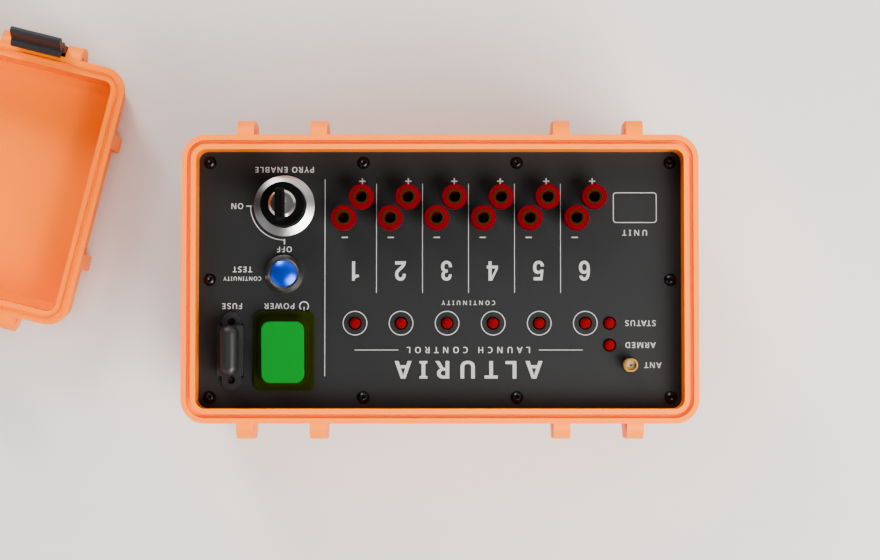
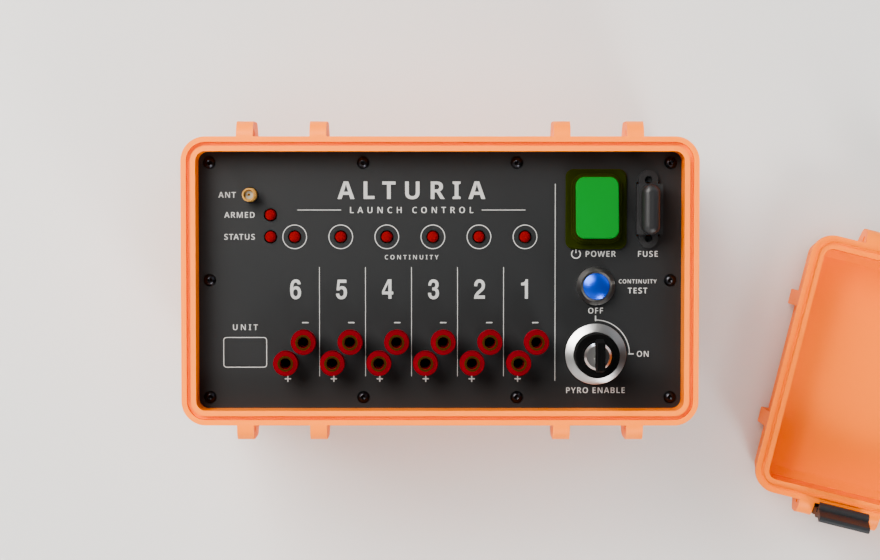
update readme

diff --git a/hardware/satellite/cad/render/build_scene.py b/hardware/satellite/cad/render/build_scene.py
@@ -345,7 +345,7 @@ def camera(name, direction, dist, lens, target=CENTER, focus=None, fstop=None, u
 panel_c = Vector(((case_lo.x + case_hi.x) / 2, (case_lo.y + case_hi.y) / 2, case_hi.z - 0.015))
 CAMS = {
     "hero": (camera("hero", (-0.42, 0.85, 0.55), 1.15, 70, fstop=11), (2400, 1600)),
-    "front": (camera("front", (0, 0.04, 1), 0.95, 85, target=panel_c, up='-Y'),
+    "front": (camera("front", (0, 0.04, 1), 0.95, 85, target=panel_c, up='Y'),
               (2200, 1400)),
     "detail": (camera("detail", (-0.3, 0.75, 0.62), 0.42, 100,
                       target=panel_c + Vector((-0.05, 0.01, 0)),

diff --git a/README.md b/README.md
@@ -1,57 +1,113 @@
-# Rocketry launch controller
+<p align="center">
+  <picture>
+    <source media="(prefers-color-scheme: dark)" srcset="design/logo/liftoff/alturia-launch-control-liftoff-reversed.svg">
+    <img src="design/logo/liftoff/alturia-launch-control-liftoff-color.svg" alt="Alturia Launch Control" width="420">
+  </picture>
+</p>
 
-A remote launch controller for amateur rocketry: a handheld operator console
-talking over LoRa to one or more pad-side satellite boards, each firing up to six
-igniter or valve channels.
+# Alturia Launch Control
 
-The organising principle is that no single fault — a firmware bug, a stuck GPIO,
-a welded relay or a failed MOSFET — can fire an igniter on its own.
+Alturia Launch Control is a wireless launch system for amateur rocketry.
+You hold a handheld controller. At the pads stand up to eight satellites,
+each with six channels for igniters or hybrid fill and vent valves, so one
+controller handles up to 48 pads. Controller and satellites talk over an
+encrypted LoRa link.
 
-## Layout
+<p align="center">
+  <img src="hardware/controller/cad/render/render_hero.png" alt="Handheld controller" width="49%">
+  <img src="hardware/satellite/cad/render/render_front.png" alt="Pad-side satellite" width="49%">
+</p>
 
-| Path | Content |
-|---|---|
-| [design/](design/) | Design documents. `satellite.md` is the original brief; `satellite_schematic_spec.md` is the netlist-level specification |
-| [documentation/](documentation/) | Write-ups: the radio link as implemented (`radio_link.md`), the forum post and their images |
-| [hardware/satellite/](hardware/satellite/) | Pad-side satellite: KiCad project and fab outputs in `pcb/`, FreeCAD case and front panel in `cad/` |
-| [hardware/controller/](hardware/controller/) | Handheld controller: KiCad project and fab outputs in `pcb/`, FreeCAD case, D-pad and panel in `cad/`, FEM and SPICE checks in `sim/` |
-| [hardware/parts/](hardware/parts/) | Vendor 3D models (FreeCAD and STEP) and datasheets shared by both, also referenced as KiCad 3D models |
-| [firmware/controller/](firmware/controller/) | Zephyr application for the operator console UI (LVGL, currently built for `native_sim`) |
-| [firmware/common/lora/](firmware/common/lora/) | LoRa radio backend shared by console and satellite |
-| [firmware/lora_bench/](firmware/lora_bench/) | Ping/pong link test on two Heltec WiFi LoRa 32 V4 boards |
-| [tools/radiosim/](tools/radiosim/) | Radio network simulator: `native_sim` controllers and satellites over a simulated channel, with a web UI |
-| [src/launch_controller/](src/launch_controller/) | Python package — placeholder |
+## Highlights
+
+- **Four switches in series per channel.** Current flows through an igniter
+  only when all four are closed: the key relay K2 (driven directly by the key
+  switch on the satellite), the arm relay K1, the channel's high-side switch
+  and its low-side MOSFET. Arming closes only K1. The two MOSFETs close
+  together for the 1 s fire pulse and at no other time.
+- **Self-test on arm.** The satellite detects welded relays and failed
+  MOSFETs and refuses to arm a channel that fails.
+- **Fails safe.** K1 is held by a monostable that the firmware has to
+  retrigger every 80 ms, so a hung CPU drops it within about 150 ms. A
+  satellite that hears nothing from the controller for 4 s goes SAFE. If the
+  operator does nothing for 60 s, the controller disarms.
+- **Precise continuity.** A test current of about 1.7 mA is measured with a
+  24-bit ADC. That resolves a 1 to 2 Ω igniter from a short.
+- **Secure radio link.** Pairing works like Bluetooth numeric comparison: an
+  ECDH P-256 key exchange, then the operator checks that the LED pattern on
+  the satellite matches the one on the controller's screen. After pairing,
+  every frame is AES-128-CCM with replay protection. The link runs on
+  869.85 MHz at 5 mW with no duty-cycle limit.
+- **Field-ready hardware.** The controller has a sunlight-readable Sharp
+  Memory LCD, a 1S LiPo and USB-C charging. The satellite sits in a
+  waterproof 3D-printed case with an aluminium front panel and runs from a
+  6 Ah LiFePO4 battery.
+
+|          | Controller                         | Satellite                             |
+|----------|------------------------------------|---------------------------------------|
+| MCU      | ESP32-S3                           | STM32G474                             |
+| Radio    | Wio-SX1262                         | Wio-SX1262                            |
+| Firmware | Zephyr RTOS, LVGL UI               | Zephyr RTOS                           |
+| Power    | 1S LiPo 4000 mAh, BQ24296M charger | LiFePO4 6 Ah                          |
+| Display  | 400×240 Sharp Memory LCD           | 6 channel LEDs, status and armed LEDs |
+| Controls | D-pad, ARM, FIRE, FILL, VENT, BACK | Key switch, continuity test button    |
+
+## What's in the repo
+
+```text
+design/          design brief, schematic spec, radio security notes, logos
+documentation/   write-ups: radio link, project overview (German), diagrams
+hardware/
+  controller/    pcb/ KiCad and fab outputs, cad/ FreeCAD case, D-pad, panel art,
+                 renders, sim/ FEM and SPICE checks
+  satellite/     pcb/ KiCad and fab outputs, cad/ FreeCAD case, front panel, renders
+  parts/         vendor 3D models and datasheets shared by both boards
+firmware/
+  controller/    operator console (ESP32-S3 or native_sim)
+  satellite/     pad-side satellite (STM32G474)
+  common/        LoRa backend, secure link, wire format, buzzer chime
+  boards/        out-of-tree Zephyr boards alturia_controller, alturia_satellite
+  lora_bench/    link bring-up on two Heltec WiFi LoRa 32 V4 boards
+tools/radiosim/  radio network simulator with web UI
+```
+
+Good places to start:
+
+- [documentation/radio_link.md](documentation/radio_link.md): the radio
+  link as implemented, covering pairing, keys, frame format, channel access
+  and commands.
+- [documentation/forum_post.md](documentation/forum_post.md): an overview
+  of the whole system, its operation and its safety concept (in German).
+- [design/satellite_schematic_spec.md](design/satellite_schematic_spec.md):
+  the satellite circuit at netlist level.
+- [tools/radiosim/README.md](tools/radiosim/README.md): running the network
+  without hardware.
 
 ## Status
 
-Nothing has been prototyped. The satellite schematic is mid-migration from rev A
-to rev B: the output channel and sense subsystem have been redrawn around a smart
-high-side switch and two new ADCs, and the remaining sheets have not caught up.
-§19 of the schematic spec is the current, netlist-derived list of what is drawn,
-what is stubbed and what is miswired.
+Rev A of both boards has been built and is in bring-up. On the bench, the
+satellite measures continuity and pairs with the controller over the air.
+The controller firmware runs on its own hardware. The satellite's arm
+state machine and command handling are still in progress. Nothing has flown
+yet.
 
-The console firmware runs against Zephyr's `native_sim` board with an emulated
-display; there is no hardware target for it yet.
+## Building
 
-## Working on it
-
-The schematic is **hand-edited in eeschema**. It was once generated from the
-spec; that generator has been removed. See
-[hardware/satellite/README.md](hardware/satellite/README.md) for the verify loop
-and for why the exported netlist, not the drawings, is the thing to check.
-
-Design-parameter checks:
+The firmware needs a Zephyr tree set up with `west`.
 
 ```sh
-uv run --group dev python -m pytest -q
-```
-
-Console firmware, against a Zephyr tree already set up with west:
-
-```sh
+# Controller UI on the desktop, with an emulated display
 west build -b native_sim firmware/controller && ./build/zephyr/zephyr.exe
+
+# Controller hardware
+west build -b alturia_controller/esp32s3/procpu -d build-board firmware/controller
+west flash -d build-board
+
+# Satellite hardware (USB DFU)
+west build -b alturia_satellite -d build-board firmware/satellite
+west flash -d build-board -r dfu-util
 ```
 
-Several controllers and satellites on one simulated radio channel, with a web
-UI for the map, the packet timeline, shells, jamming and replay: see
-[tools/radiosim/README.md](tools/radiosim/README.md).
+For board-specific details, see
+[firmware/satellite/README.md](firmware/satellite/README.md) and
+[firmware/lora_bench/README.md](firmware/lora_bench/README.md).
